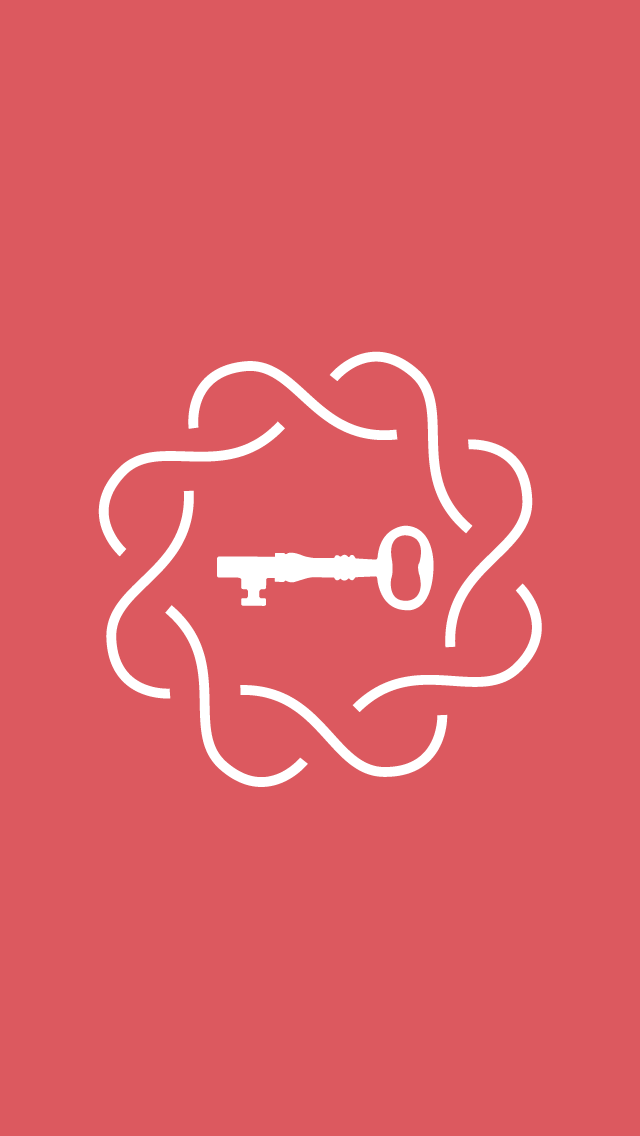
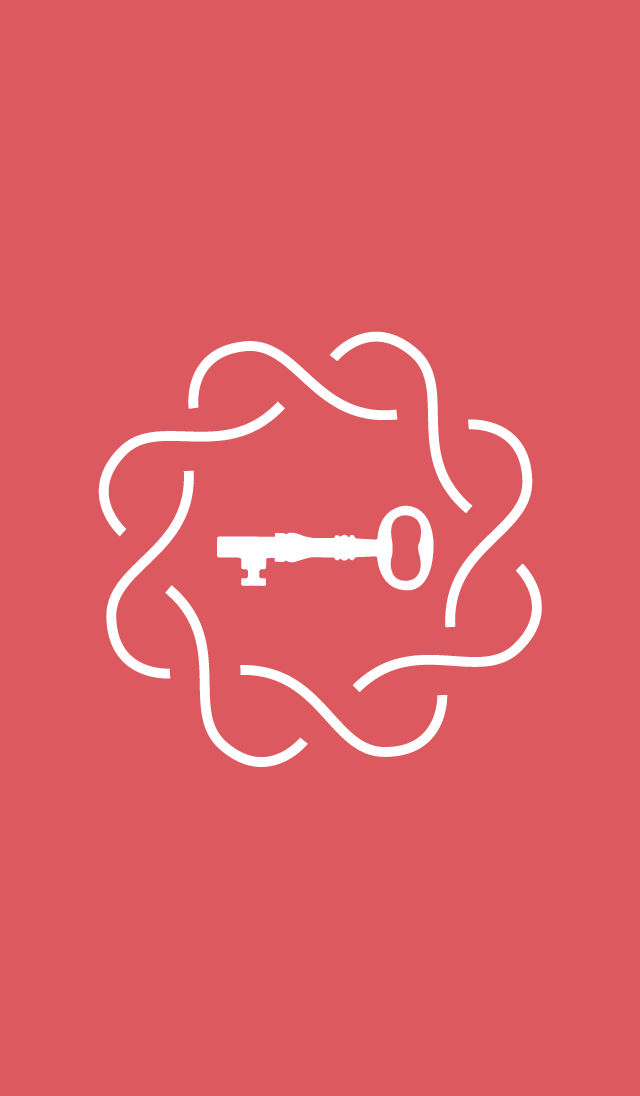
added appropriate size startup images

diff --git a/www/index.html b/www/index.html
@@ -21,7 +21,10 @@
     <link rel="apple-touch-icon" sizes="120x120" href="img/app-logo-120.png">
     <link rel="apple-touch-icon" sizes="152x152" href="img/app-logo-152.png">
 
-    <link rel="apple-touch-startup-image" href="img/startup.png">
+    <!-- iPhone 6 -->
+    <link href="img/startup-large.png" media="(device-width: 375px) and (device-height: 667px) and (orientation: portrait) and (-webkit-device-pixel-ratio: 2)" rel="apple-touch-startup-image">
+    <!-- iPhone 5 -->
+    <link href="img/startup.png" media="(device-width: 320px) and (device-height: 568px) and (-webkit-device-pixel-ratio: 2)" rel="apple-touch-startup-image">
 
     <meta name="apple-mobile-web-app-capable" content="yes">
 
